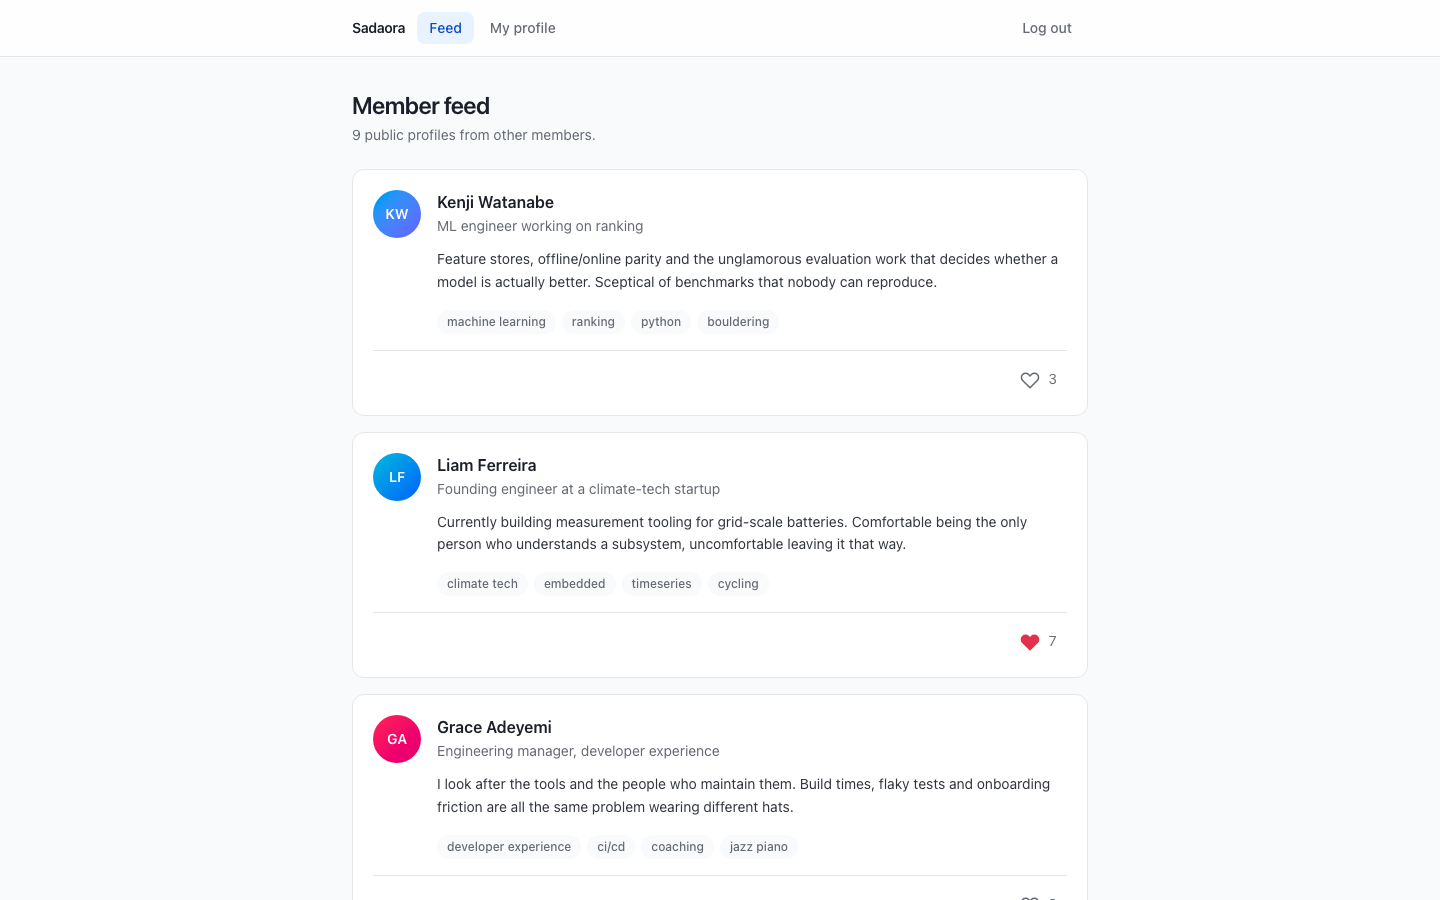
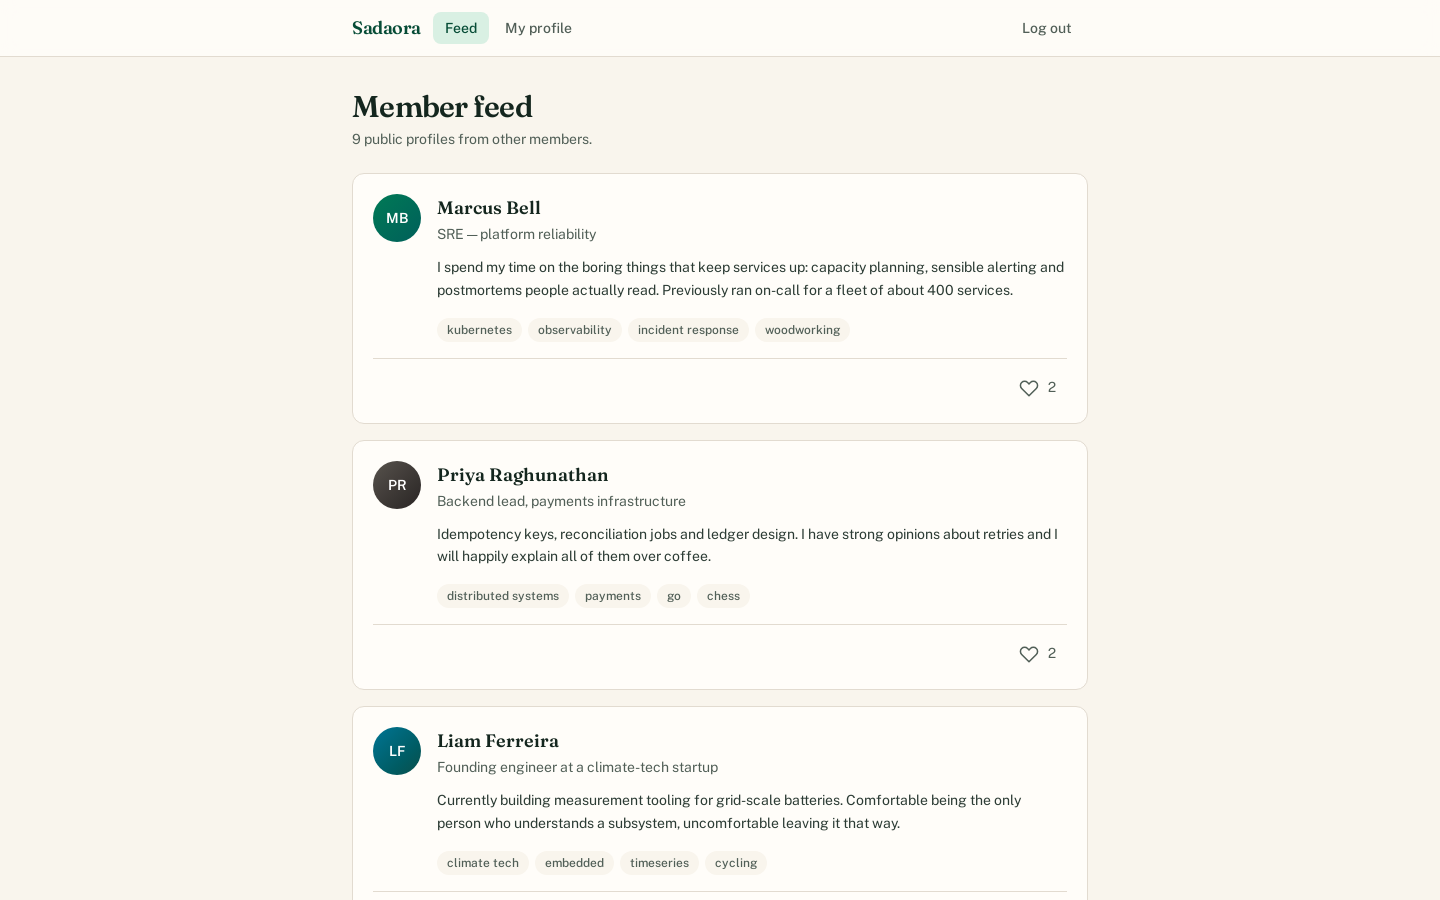
Document the verified Compose stack and real API exchanges
The README now reports the stack as booted against Postgres 16, shows
login, feed and like responses captured from the demo server, and swaps
in fresh desktop and phone-width screenshots of the new look. Adds an
MIT LICENSE, since the project had none, and lists the major upgrades
and photo-cleanup gap that remain open.

diff --git a/README.md b/README.md
@@ -5,14 +5,15 @@ comma-separated interests, optional photo), and page through every other member'
 liking and unliking as you go. Express + Prisma over PostgreSQL behind a React 19 SPA that
 does all of its data access through RTK Query.
 
-It was built as a take-home assessment, so the scope stays fixed to that brief — no extra
-product surface. The work that *is* here is correctness, layering, tests and documentation.
+The product surface is deliberately small: one profile per member and one feed. The effort
+goes into correctness, layering, tests and documentation rather than more screens.
 
 ## Try it without installing a database
 
 The API ships with a second storage driver that lives in process memory, pre-seeded with ten
 members. It runs the real routes, middleware, validation and services — only the repository
-implementation differs — and it is how the screenshots below were captured.
+implementation differs — and it is how the screenshots below were captured. You need
+Node 22 (see `.nvmrc`).
 
 ```bash
 # terminal 1 — API on :3001, in-memory, seeded
@@ -43,8 +44,10 @@ cp .env.example .env         # JWT_SECRET is mandatory — compose refuses to st
 docker compose up --build
 ```
 
-**These images have not been built or booted here.** `docker compose config` parses and
-resolves cleanly, and that is the extent of the verification.
+The stack has been built and booted from a clean checkout: all three containers reach
+`healthy`, the three migrations apply to an empty volume, and signup, profile save with a
+photo, the feed, idempotent likes and profile deletion all behave the same on PostgreSQL as
+on the in-memory driver.
 </details>
 
 ## What it looks like
@@ -55,8 +58,17 @@ resolves cleanly, and that is the extent of the verification.
 | Feed, top of page one | After "Load more" — end of the feed |
 | ![The profile editor with the demo member's name, headline, bio and interests filled in](docs/screenshots/profile-editor.png) | ![A modal dialog headed "Delete your profile?" with Cancel and "Yes, delete it" buttons](docs/screenshots/delete-confirmation.png) |
 | The profile editor | Deleting a profile |
+| ![The sign-in card with email and password fields and a Log in button](docs/screenshots/login.png) | |
+| Signing in | |
 
-All four are 1440×900, taken against the seeded demo API described above.
+And at phone width (390×844), where the cards and the editor reflow to a single column:
+
+| | |
+| --- | --- |
+| ![The feed on a narrow screen, one card per row](docs/screenshots/feed-mobile.png) | ![The profile editor on a narrow screen](docs/screenshots/profile-editor-mobile.png) |
+
+All of them were taken with Playwright against the seeded demo API described above. The
+members are fictional and have no photos, so every avatar is an initials tile.
 
 ## The data it keeps
 
@@ -151,6 +163,60 @@ Everything under `/api/profile` requires `Authorization: Bearer <token>`.
 | `DELETE` | `/api/profile/{id}/like` | Idempotent. Returns the authoritative count. |
 | `GET` | `/api/health` | No token. Reports the active data driver. |
 
+Captured from the demo server (the token is elided and the feed is trimmed to one card):
+
+```http
+POST /api/auth/login
+Content-Type: application/json
+
+{"email": "demo@sadaora.test", "password": "sadaora-demo-2025"}
+```
+
+```json
+{
+  "token": "<a signed JWT, valid for JWT_EXPIRES_IN>",
+  "user": { "id": "7ee08eff-c8c1-49d3-89ca-0256a799c00d", "email": "demo@sadaora.test" }
+}
+```
+
+```http
+GET /api/profile/feed?page=1&limit=2
+Authorization: Bearer <token>
+```
+
+```json
+{
+  "data": [
+    {
+      "id": "cc4a2566-6259-46ea-833f-3b0702bb8a3e",
+      "name": "Grace Adeyemi",
+      "headline": "Engineering manager, developer experience",
+      "bio": "I look after the tools and the people who maintain them. …",
+      "photoUrl": null,
+      "interests": ["developer experience", "ci/cd", "coaching", "jazz piano"],
+      "createdAt": "2026-11-08T14:17:59.110Z",
+      "likeCount": 8,
+      "likedByCurrentUser": false
+    }
+  ],
+  "meta": { "page": 1, "limit": 2, "total": 9, "totalPages": 5, "hasMore": true }
+}
+```
+
+Liking twice gives the same answer both times, and unliking returns the count the server
+holds:
+
+```http
+POST /api/profile/cc4a2566-6259-46ea-833f-3b0702bb8a3e/like     -> {"liked":true,"likeCount":9}
+DELETE /api/profile/cc4a2566-6259-46ea-833f-3b0702bb8a3e/like   -> {"liked":false,"likeCount":8}
+```
+
+A profile save with an empty name:
+
+```json
+{ "error": { "code": "BAD_REQUEST", "message": "Validation failed", "details": { "name": "Name is required" } } }
+```
+
 Failures always come back as `{ error: { code, message, details? } }`. Anything the server
 does not recognise is collapsed to a generic `INTERNAL_ERROR` 500, so Prisma messages and
 file paths never reach a client. `401 INVALID_TOKEN` means the session is over and the SPA
@@ -213,7 +279,7 @@ cd frontend   # dev · test · test:coverage · lint · typecheck · build
 ```
 
 ```
-backend   Test Suites: 10 passed, 10 total     Tests:  73 passed, 73 total
+backend   Test Suites: 10 passed, 10 total     Tests:  75 passed, 75 total
 frontend  Test Files    7 passed (7)           Tests:  44 passed (44)
 ```
 
@@ -238,7 +304,11 @@ or in the Docker image. `BCRYPT_ROUNDS` is configurable.
 **Photo filenames are generated, never echoed.** The stored name is `photo-<uuid>` plus an
 extension looked up from the validated MIME type, so nothing a client sends becomes a path
 in the directory that `express.static` serves. Uploads are capped at 2 MB, one file, and
-restricted to JPEG, PNG, WebP and GIF.
+restricted to JPEG, PNG, WebP and GIF. Because multer writes the file before validation
+runs, a rejected save deletes the file it just stored.
+
+**Emails are trimmed and lower-cased, nothing more.** Gmail-style dot and `+tag` stripping
+would change the address a member typed and merge mailboxes that are really different.
 
 **The feed's page size is clamped** to `MAX_FEED_PAGE_SIZE`, because `limit` arrives from the
 query string, and the response carries real `total`, `totalPages` and `hasMore` so the client
@@ -247,16 +317,21 @@ never infers "there is more" from a page length. Its DTO exposes `likeCount` and
 not public data, and serialisation lives in one module so two endpoints cannot disagree about
 the shape of `photoUrl`.
 
-**The production bundle is 20.80 kB of app code (6.88 kB gzipped) plus a 293.90 kB vendor
-chunk (95.58 kB gzipped)**, split so an app change does not invalidate the cached vendor
+**The production bundle is 20.82 kB of app code (6.89 kB gzipped) plus a 345.35 kB vendor
+chunk (111.36 kB gzipped)**, split so an app change does not invalidate the cached vendor
 chunk. Measured with `npm run build`.
+
+**The look is warm paper and pine green**, with Fraunces for headings over Public Sans,
+loaded from Google Fonts with system fallbacks. Colours live as tokens in
+`frontend/src/index.css`, so components never hard-code a shade.
 
 ## Known gaps
 
 - **Photos are written to the API's local disk** and served by Express. That does not survive
   a redeploy and does not work behind more than one instance. Object storage behind the
   existing `photoUrl` field is the obvious next step — the DTO layer passes absolute URLs
-  through unchanged, so a CDN URL needs no code change.
+  through unchanged, so a CDN URL needs no code change. Replacing a photo or deleting a
+  profile also leaves the old file on disk.
 - **No refresh tokens.** One access token in `localStorage`, readable by any script on the
   origin. Short-lived access tokens plus an httpOnly refresh cookie is the production answer.
 - **Offset pagination** degrades on deep pages and can skip or repeat a row if profiles are
@@ -265,11 +340,16 @@ chunk. Measured with `npm run build`.
 - **No rate limiting on `/api/auth/login`** and no password reset flow.
 - **The feed is not searchable, filterable or ranked** — it is every other member, newest
   first.
-- **Nothing here has met a live PostgreSQL.** The Prisma driver's query shapes are asserted
-  against a mock — which catches "we stopped aggregating in SQL" but not "this is invalid
-  SQL" — and the index-and-cascade migration was checked by diffing it against Prisma's own
-  generated DDL (`prisma migrate diff --from-empty`) rather than by applying it. The suite is
-  driver-agnostic, so a CI job with a Postgres service container could close both gaps by
-  rerunning the integration tests under `DATA_DRIVER=prisma`.
+- **The automated tests never touch PostgreSQL.** The Prisma driver's query shapes are
+  asserted against a mock, which catches "we stopped aggregating in SQL" but not "this is
+  invalid SQL". The Compose stack has been exercised by hand against Postgres 16; rerunning
+  the integration suite under `DATA_DRIVER=prisma` against a throwaway database would make
+  that check repeatable.
+- **Major upgrades are pending**: Express 5, Prisma 7, ESLint 9 for the backend (the Airbnb
+  TypeScript config does not support it), and Vite 7+, Vitest 4+ and MSW 3 for the frontend.
 - **The in-memory driver is for tests and the demo only** — not durable, not shared between
   processes, and it sorts the feed in JavaScript.
+
+## Licence
+
+MIT — see [LICENSE](LICENSE).
